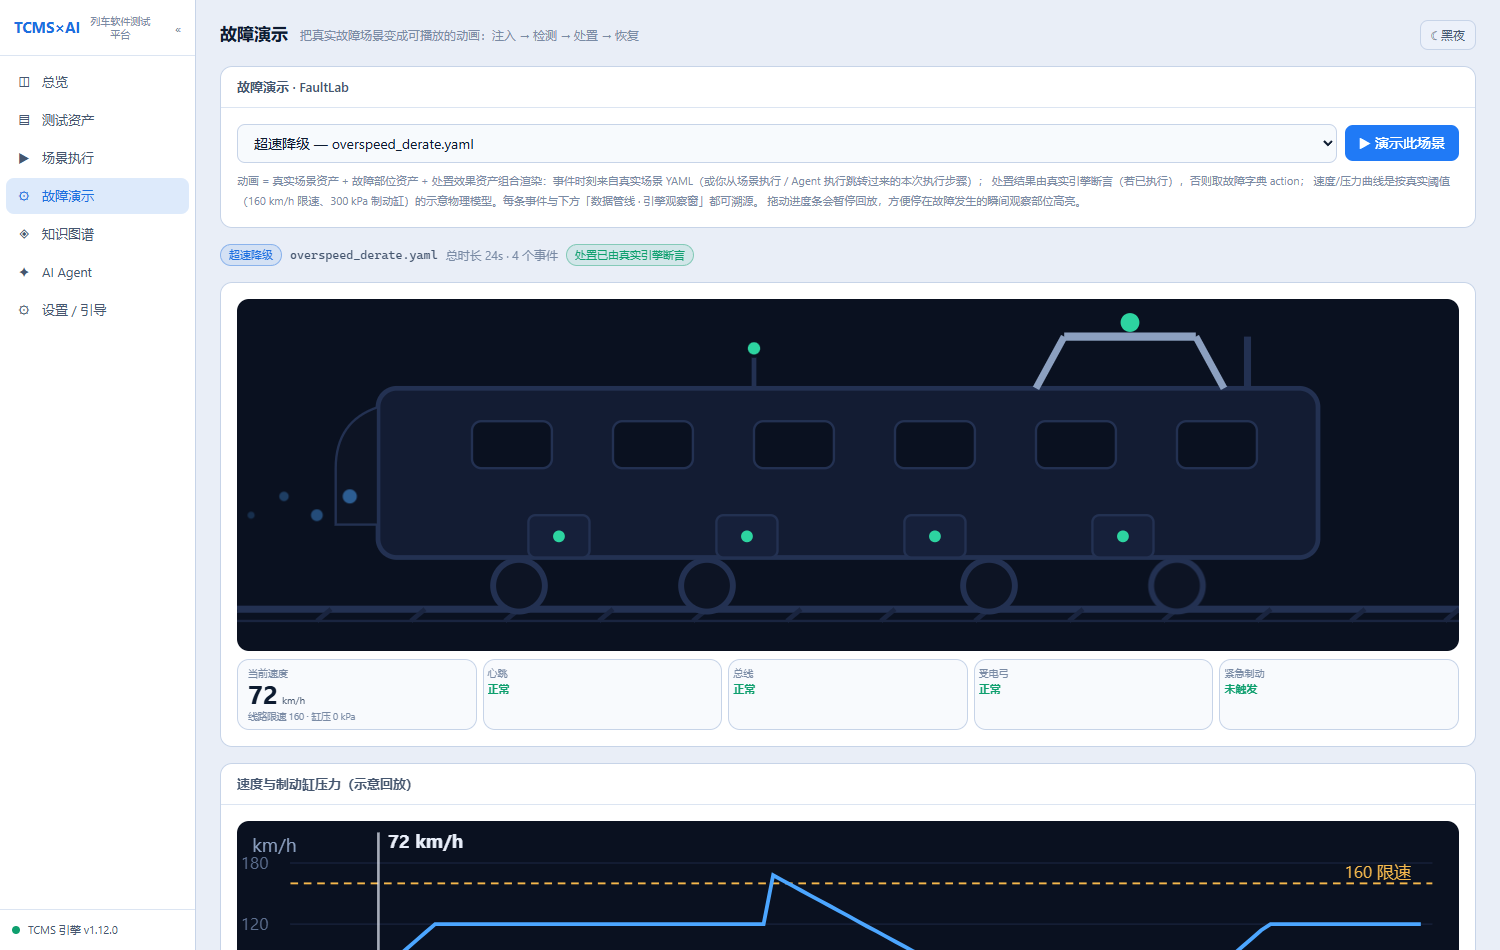
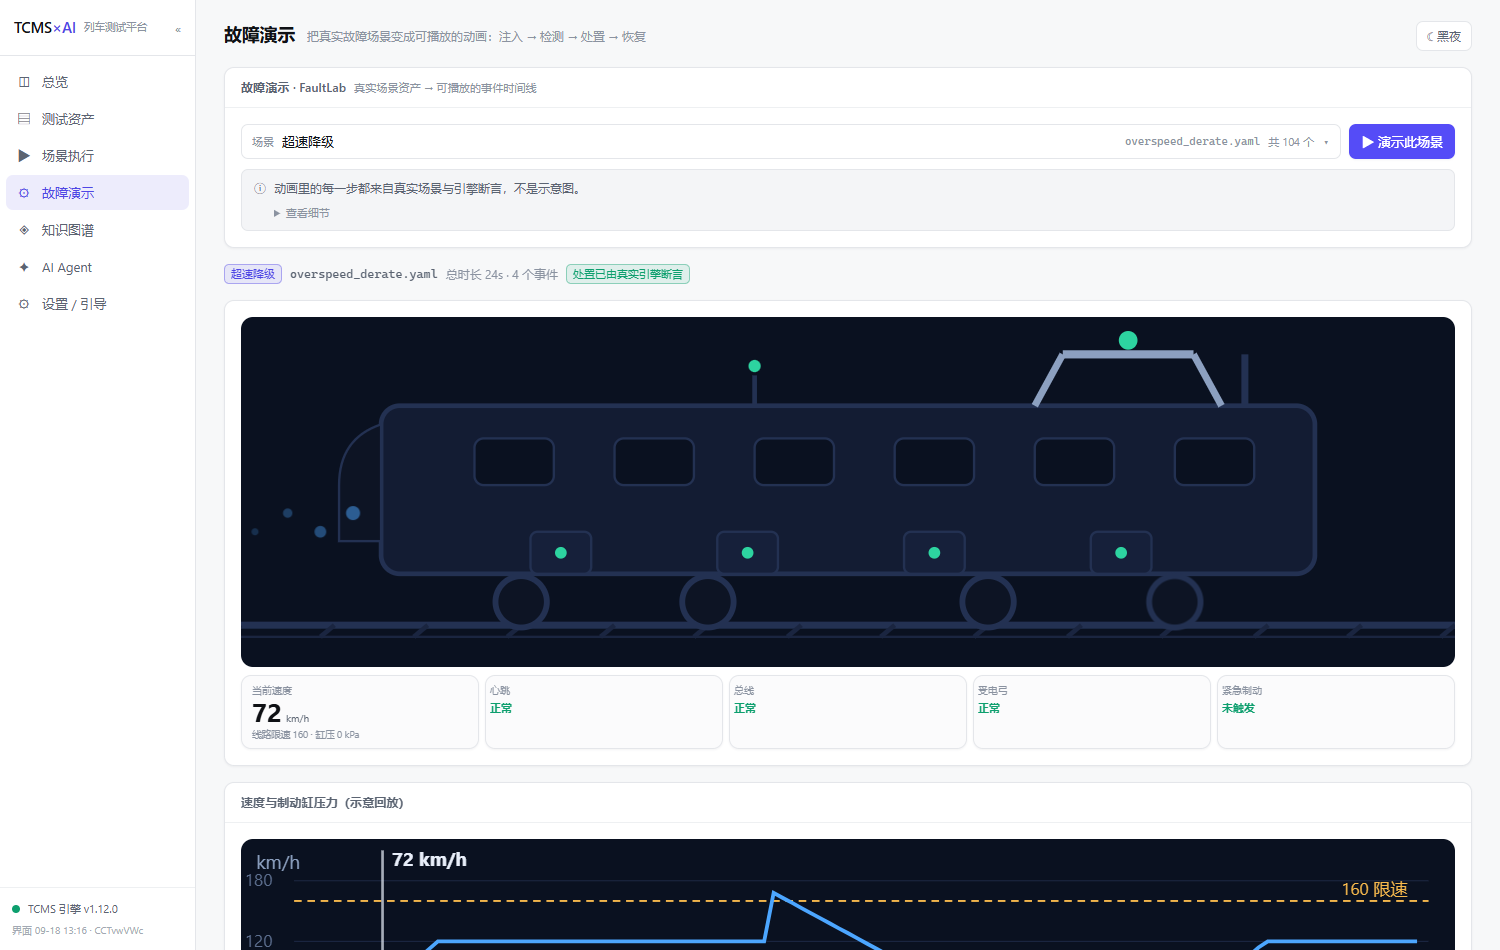
docs(assets): 重采界面截图——旧图还指着已废弃的 D 盘路径与早期规模；根 README 首次放图
问题：platform README 引用的 3 张界面截图停留在**早期版本**，图上写着资产源 D:\DSHworkplace\objects\tcms-can-test（**已废弃的 D 盘工作区**，09-07 已迁 E 盘）与 8 报文 / 36 信号 / 22 FMEA / 13 场景 / 18 需求；当前真实值是 22 / 116 / 203 / 104 / 52。文件时间戳是 checkout 时间而非生成时间，所以它们一直没被更新过——而访客看到的第一屏正是这些数字。

修复：1) capture-doc-shots.mjs 补上**首页截图**——它此前根本没有生成脚本，这正是那张图长期停在旧版的原因；并加两道守卫：首页必须显示 FMEA 203、且**不得出现废弃的 D 盘路径**，否则宁可失败也不把过期数字送上 README。2) 重采 3 张图，新鲜度守卫全绿（引擎 1.12.0 / 图谱 655 节点 / 无 D 盘路径）。3) 根 README **首次放上界面截图**——此前仓库首屏一张图都没有（platform 与 engine 各自都有），而「看得见」是这个项目的核心价值之一。

附带：e2e/README.md 补安装说明——它写着 cd e2e && npm run smoke，但该目录没有 package.json、依赖 playwright-core 也无处声明，这条命令从来跑不通（该目录的 package.json 被 packages/platform/.gitignore 有意忽略、不随仓库分发，故只补文档说明，不动 gitignore 的既有决策）。

验证：截图守卫 7/7 通过；/api/health 正常（平台 0.6.0 / 引擎 1.12.0）。

diff --git a/packages/platform/e2e/README.md b/packages/platform/e2e/README.md
@@ -10,8 +10,11 @@
 
 ```bash
 # 前置：后端已启动且 web/dist 已构建（127.0.0.1:8000）
-cd e2e
+# 首次：安装浏览器驱动（该目录的 package.json 被 .gitignore 有意忽略、不随仓库分发，
+# 因此 clone 后需自己装一次；浏览器用本机缓存/系统 Edge，不额外下载）
+npm install          # 或 pnpm install
 npm run smoke        # 等价 node main-flow.mjs
+npm run shots        # 采集 README 用的界面截图（带新鲜度守卫，不符即失败）
 ```
 
 - 浏览器可执行文件从本机 Playwright 缓存自动探测（无需在线下载）；

diff --git a/README.md b/README.md
@@ -9,6 +9,12 @@
 [![tests](https://img.shields.io/badge/tests-1682%20passed-2dd4a0)](#测试与门禁)
 [![License](https://img.shields.io/badge/license-MIT-8ca0c0)](#license)
 
+![平台总览：真实资产规模、三个入口与列车视角的被测功能](packages/platform/docs/dashboard-preview.png)
+
+> 上图由 `packages/platform/e2e/capture-doc-shots.mjs` 从**当前构建**采集，
+> 并带新鲜度守卫（引擎版本 / 图谱节点 / 资产规模不符即失败）——README 里的数字
+> 与界面上的数字因此都不可能靠手抄。
+
 ---
 
 ## 这是什么
